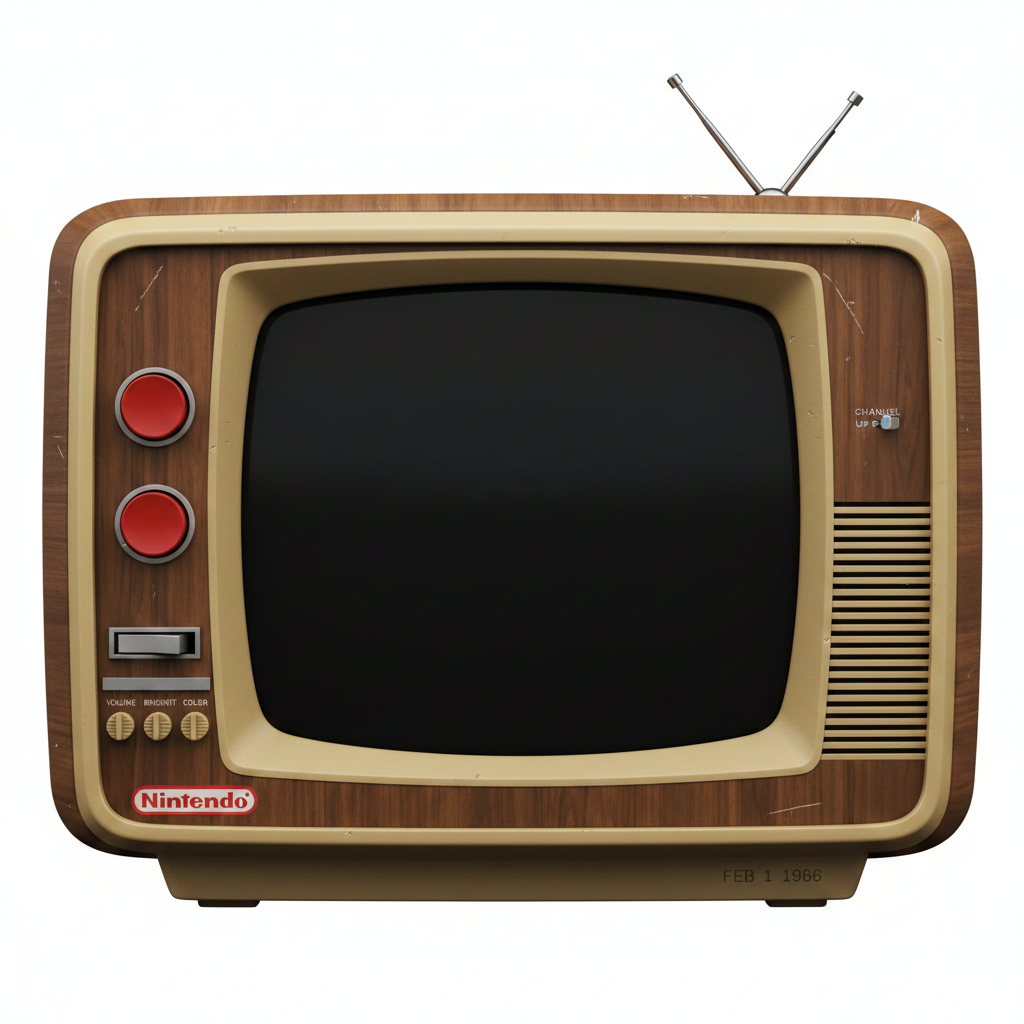
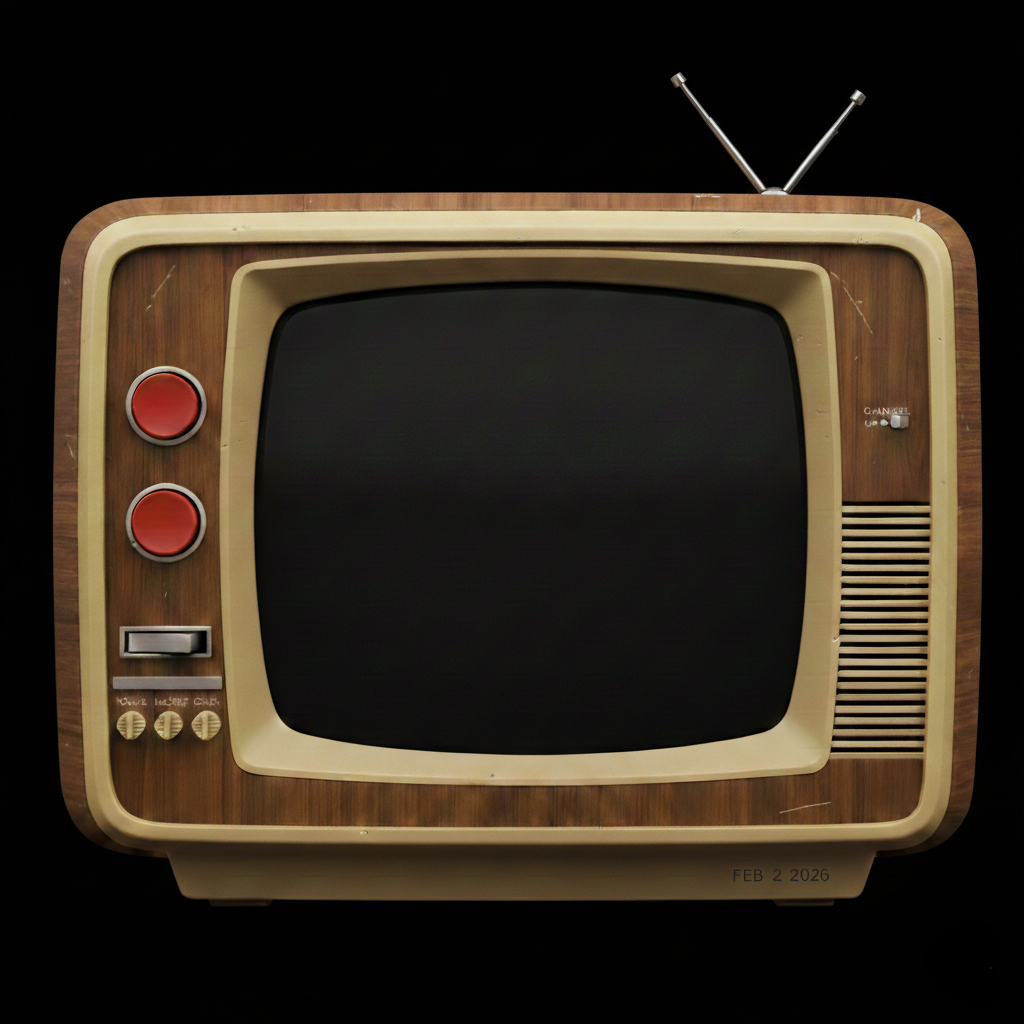
feat: Update bezel display

diff --git a/display/display.go b/display/display.go
@@ -18,7 +18,7 @@ const (
 	scalingFactor   = 1.5
 	bezelWidth       = 1024
 	bezelHeight      = 1024
-	gameScreenX      = 310
+	gameScreenX      = 318
 	gameScreenY      = 322
 	gameScreenWidth  = 423
 	gameScreenHeight = 396
